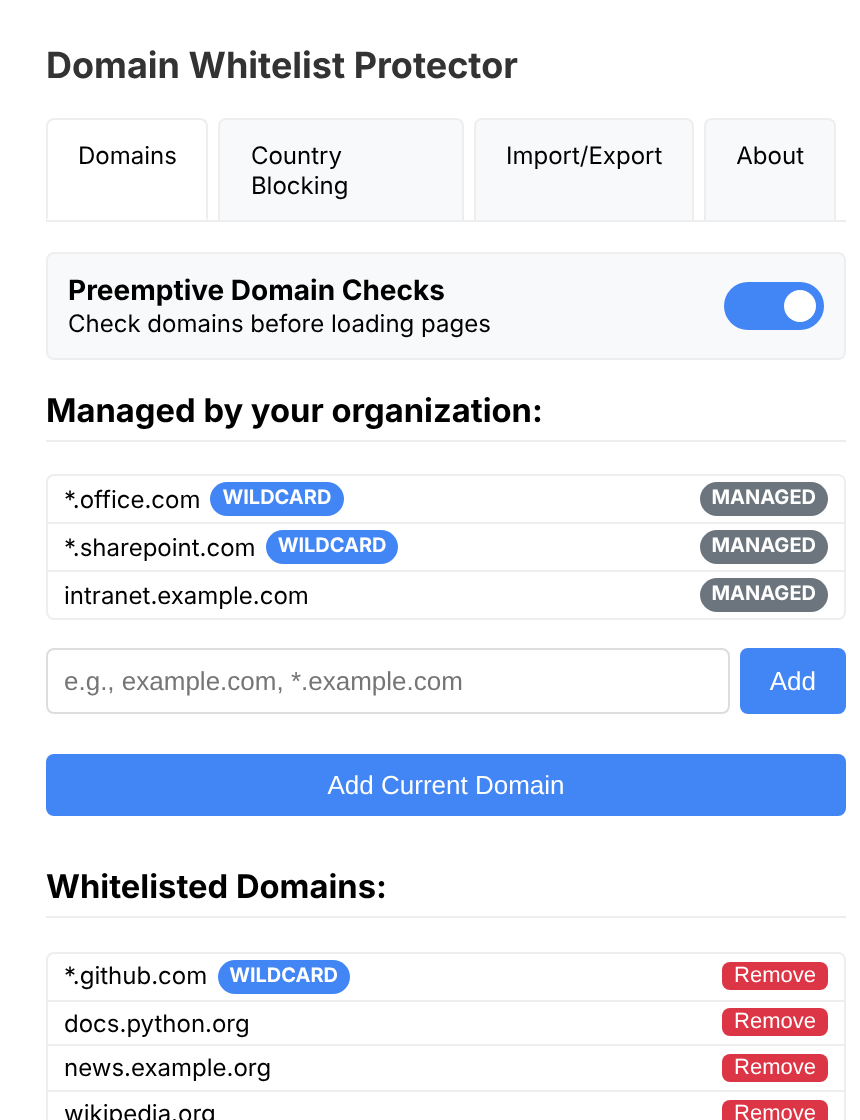
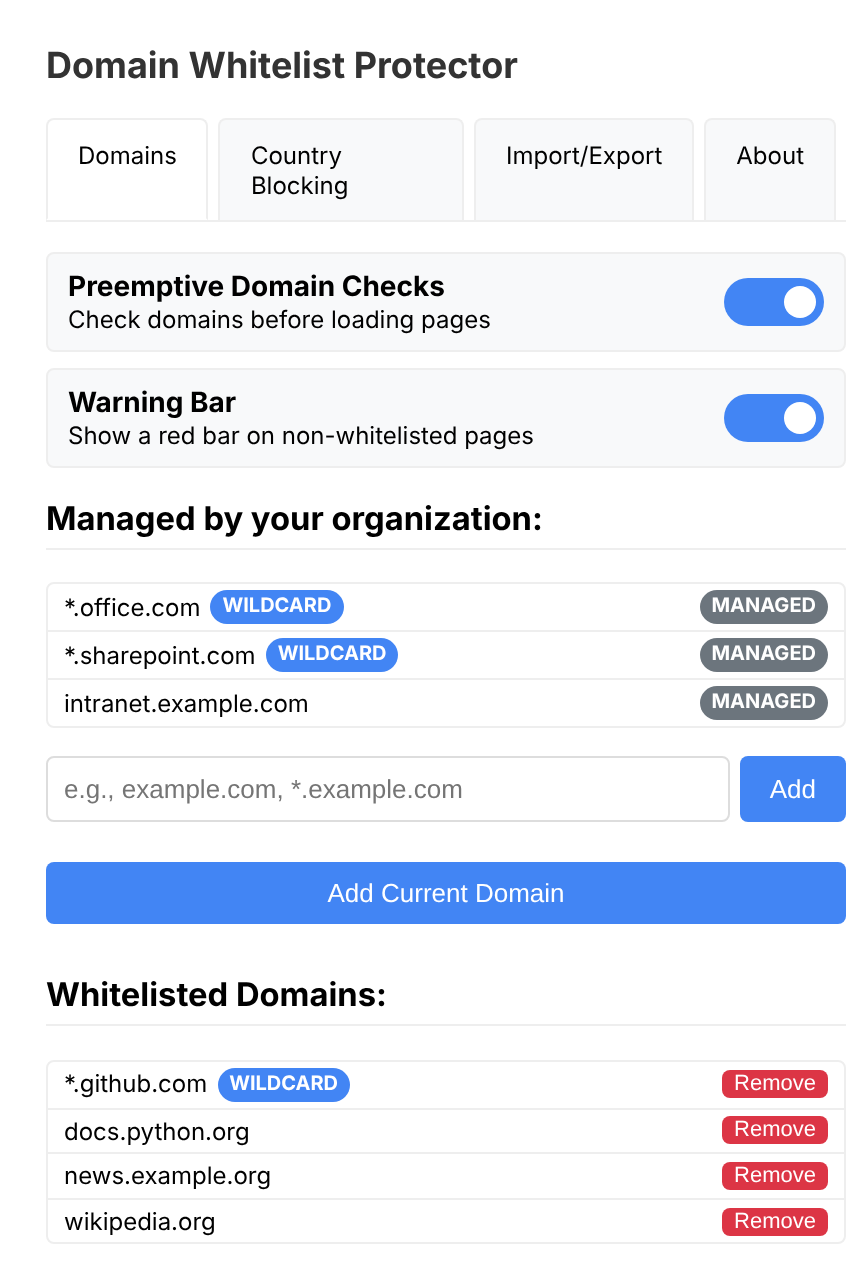
feat: warning bar can be dismissed per website and switched off
Closing the bar hides it for that website until the tab is closed
(suspicious domains show it again on every page). A new setting, lockable
by policy (enableWarningBar), turns the bar off entirely.

Claude-Session: https://claude.ai/code/session_01Eao7JCDyTYD7DYUftm2gS2

diff --git a/src/background.js b/src/background.js
@@ -22,6 +22,30 @@ async function allowDomainForSession(domain) {
   }
 }
 
+// Warning bars the user closed: { tabId: [domain, ...] }. A closed bar stays
+// hidden for that website until the tab or the browser is closed.
+async function getDismissedBars() {
+  const result = await browserAPI.storage.session.get(["dismissedBars"]);
+  return result.dismissedBars || {};
+}
+
+async function dismissBar(tabId, domain) {
+  const dismissed = await getDismissedBars();
+  const domains = dismissed[tabId] || [];
+  if (domain && !domains.includes(domain)) {
+    dismissed[tabId] = [...domains, domain];
+    await browserAPI.storage.session.set({ dismissedBars: dismissed });
+  }
+}
+
+browserAPI.tabs.onRemoved.addListener(async (tabId) => {
+  const dismissed = await getDismissedBars();
+  if (tabId in dismissed) {
+    delete dismissed[tabId];
+    await browserAPI.storage.session.set({ dismissedBars: dismissed });
+  }
+});
+
 browserAPI.webNavigation.onCommitted.addListener((details) => {
   // Only check main frame navigations
   if (details.frameId === 0) {
@@ -294,8 +318,21 @@ async function handleMessage(message, sender) {
         rootDomain: getRootDomain(message.hostname),
         similarTo: findSimilarWhitelisted(message.hostname, settings.whitelist),
         suspicion: findSuspicion(message.hostname, settings.whitelist),
+        barDismissed: Boolean(
+          sender.tab &&
+            ((await getDismissedBars())[sender.tab.id] || []).includes(
+              message.hostname,
+            ),
+        ),
       };
     }
+
+    case "dismissBar":
+      // Only for the page's own domain, as reported by the browser
+      if (sender.tab && isHttpUrl(sender.url)) {
+        await dismissBar(sender.tab.id, getDomain(sender.url));
+      }
+      return {};
 
     case "confirmationInfo": {
       if (!fromConfirmation) return {};
@@ -340,12 +377,14 @@ async function handleMessage(message, sender) {
       return {};
 
     case "togglePreemptiveChecks":
-    case "toggleCountryBlock": {
+    case "toggleCountryBlock":
+    case "toggleWarningBar": {
       if (!fromExtensionPage) return {};
-      const key =
-        message.action === "togglePreemptiveChecks"
-          ? "enablePreemptiveChecks"
-          : "enableCountryBlock";
+      const key = {
+        togglePreemptiveChecks: "enablePreemptiveChecks",
+        toggleCountryBlock: "enableCountryBlock",
+        toggleWarningBar: "enableWarningBar",
+      }[message.action];
       const settings = await loadSettings();
       if (!settings.locked[key]) {
         await browserAPI.storage.sync.set({ [key]: Boolean(message.enabled) });

diff --git a/src/content.js b/src/content.js
@@ -56,6 +56,13 @@ async function createWarningBar(domain, allowUserWhitelist, homograph) {
   // No one-click whitelisting for domains that look like a trusted one
   const suspicious = Boolean(homograph || (info && info.similarTo));
 
+  // The user closed the bar for this website in this tab. Suspicious
+  // domains show it again on every page.
+  if (info && info.barDismissed && !suspicious) {
+    if (warningBar === bar) warningBar = null;
+    return;
+  }
+
   if (allowUserWhitelist && !suspicious) {
     bar.appendChild(
       createButton("whitelist-btn", t("barWhitelist"), async () => {
@@ -79,7 +86,10 @@ async function createWarningBar(domain, allowUserWhitelist, homograph) {
     }
   }
 
-  const closeButton = createButton("close-warning-btn", "×", removeWarningBar);
+  const closeButton = createButton("close-warning-btn", "×", () => {
+    removeWarningBar();
+    browserAPI.runtime.sendMessage({ action: "dismissBar" }).catch(() => {});
+  });
   closeButton.title = t("barClose");
   bar.appendChild(closeButton);
 
@@ -241,11 +251,15 @@ async function checkDomain() {
     protectedEmailDomains = settings.protectedEmailDomains;
     scanFields();
     setTimeout(scanFields, 1500);
-    createWarningBar(
-      currentDomain,
-      settings.allowUserWhitelist,
-      analyzeHomograph(currentDomain, settings.whitelist),
-    );
+    if (settings.enableWarningBar) {
+      createWarningBar(
+        currentDomain,
+        settings.allowUserWhitelist,
+        analyzeHomograph(currentDomain, settings.whitelist),
+      );
+    } else {
+      removeWarningBar();
+    }
   }
 }
 

diff --git a/src/popup/popup.html b/src/popup/popup.html
@@ -129,8 +129,8 @@
       .toggle-container {
         display: flex;
         align-items: center;
-        margin: 15px 0;
-        padding: 10px;
+        margin: 8px 0;
+        padding: 8px 10px;
         background-color: #f8f9fa;
         border-radius: 4px;
         border: 1px solid #eee;
@@ -315,6 +315,26 @@
         </label>
       </div>
 
+      <div class="toggle-container">
+        <div class="toggle-label">
+          <strong data-i18n="warningBarTitle">Warning Bar</strong>
+          <div data-i18n="warningBarText">
+            Show a red bar on non-whitelisted pages
+          </div>
+          <div
+            class="managed-note"
+            id="warning-bar-managed"
+            data-i18n="managedByOrg"
+            hidden
+          >
+            Managed by your organization
+          </div>
+        </div>
+        <label class="toggle">
+          <input type="checkbox" id="warning-bar-toggle" checked />
+          <span class="slider"></span>
+        </label>
+      </div>
       <div id="managed-section" hidden>
         <h3 class="section-title" data-i18n="managedHeading">
           Managed by your organization:

diff --git a/scripts/enterprise.js b/scripts/enterprise.js
@@ -78,6 +78,20 @@ const POLICIES = [
     },
   },
   {
+    name: "enableWarningBar",
+    type: "boolean",
+    en: {
+      title: "Force the warning bar on non-whitelisted pages",
+      explain:
+        "Enabled: the red warning bar is always shown on non-whitelisted pages. Users can still close it for a website; it then stays hidden for that website until the tab is closed.\n\nDisabled: the warning bar is never shown. The confirmation page and the sign-in warning are not affected.\n\nNot configured: users decide.",
+    },
+    de: {
+      title: "Warnleiste auf nicht erlaubten Seiten erzwingen",
+      explain:
+        "Aktiviert: Die rote Warnleiste erscheint immer auf nicht erlaubten Seiten. Benutzer können sie für eine Website schließen; sie bleibt dann für diese Website ausgeblendet, bis der Tab geschlossen wird.\n\nDeaktiviert: Die Warnleiste erscheint nie. Bestätigungsseite und Warnung bei Anmeldung sind davon nicht betroffen.\n\nNicht konfiguriert: Benutzer entscheiden selbst.",
+    },
+  },
+  {
     name: "enableCountryBlock",
     type: "boolean",
     en: {

diff --git a/src/common.js b/src/common.js
@@ -388,6 +388,7 @@ async function loadSettings() {
   const locked = {
     enablePreemptiveChecks: typeof policy.enablePreemptiveChecks === "boolean",
     enableCountryBlock: typeof policy.enableCountryBlock === "boolean",
+    enableWarningBar: typeof policy.enableWarningBar === "boolean",
     geoProvider: GEO_PROVIDERS.includes(policy.geoProvider),
   };
   let geoProvider = locked.geoProvider
@@ -451,6 +452,9 @@ async function loadSettings() {
     enableCountryBlock: locked.enableCountryBlock
       ? policy.enableCountryBlock
       : syncData.enableCountryBlock !== false,
+    enableWarningBar: locked.enableWarningBar
+      ? policy.enableWarningBar
+      : syncData.enableWarningBar !== false,
     geoProvider,
     managedBlockedCountries,
     userBlockedCountries,
@@ -473,6 +477,7 @@ function settingsChanged(changes, areaName) {
       isWhitelistKey(key) ||
       key === "enablePreemptiveChecks" ||
       key === "enableCountryBlock" ||
+      key === "enableWarningBar" ||
       key === "geoProvider" ||
       key === "blockedCountries",
   );

diff --git a/src/popup/popup.js b/src/popup/popup.js
@@ -72,6 +72,16 @@ document.addEventListener("DOMContentLoaded", function () {
       browserAPI.storage.sync.set({ geoProvider: this.value });
     });
 
+  // Warning bar toggle
+  document
+    .getElementById("warning-bar-toggle")
+    .addEventListener("change", function () {
+      browserAPI.runtime.sendMessage({
+        action: "toggleWarningBar",
+        enabled: this.checked,
+      });
+    });
+
   // Load countries selector
   loadCountries();
 
@@ -112,6 +122,7 @@ async function loadToggleState() {
   const toggles = [
     ["preemptive-check-toggle", "preemptive-managed", "enablePreemptiveChecks"],
     ["country-block-toggle", "country-managed", "enableCountryBlock"],
+    ["warning-bar-toggle", "warning-bar-managed", "enableWarningBar"],
   ];
   for (const [toggleId, noteId, key] of toggles) {
     const toggle = document.getElementById(toggleId);

diff --git a/README.md b/README.md
@@ -11,7 +11,7 @@ can be rolled out and configured centrally through Group Policy.
 **Protection**
 
 - **Confirmation page**: non-whitelisted domains are intercepted before they load; you choose to continue once, whitelist, or leave
-- **Warning bar**: a red banner stays visible on non-whitelisted pages
+- **Warning bar**: a red banner on non-whitelisted pages; closing it hides it for that website until the tab is closed, and it can be turned off entirely
 - **Lookalike detection**: warns when a domain imitates a whitelisted one, using characters from other alphabets (`аmazon.de` with a Cyrillic "а"), typos (`sharepoimt.com`), visual tricks (`rnicrosoft.com`), other endings (`sharepoint.co`) or the trusted name as a subdomain (`sharepoint.com.evil.net`). Such domains cannot be whitelisted with one click
 - **Sign-in guard**: marks the field red and warns when a company e-mail address is typed on a non-whitelisted page
 - **Country blocking**: optionally looks up where a non-whitelisted domain is hosted and blocks selected countries
@@ -97,6 +97,7 @@ Administrators can set these through the generated templates (see `src/managed_s
 | `managedWhitelist` | list of strings | Domains that are always whitelisted |
 | `allowUserWhitelist` | boolean | `false`: users cannot whitelist their own domains |
 | `enablePreemptiveChecks` | boolean | Forces the confirmation page on or off |
+| `enableWarningBar` | boolean | Forces the warning bar on or off |
 | `protectedEmailDomains` | list of strings | Company e-mail domains for the sign-in guard |
 | `protectedLogins` | list of strings | Optional, per user: further sign-in names for the sign-in guard |
 | `noticeText` | string | Note shown on the confirmation page |

diff --git a/docs/enterprise-gpo.md b/docs/enterprise-gpo.md
@@ -125,6 +125,7 @@ beide Browser nutzt, trage die Liste in beiden Ordnern ein.
 | Firmen-Whitelist | Domains, die für alle immer erlaubt sind |
 | Benutzer dürfen eigene Domains erlauben | Deaktiviert: nur die Firmen-Whitelist gilt. Andere Seiten lassen sich nach der Warnung weiterhin öffnen, aber nicht dauerhaft erlauben |
 | Bestätigungsseite für nicht erlaubte Domains erzwingen | Aktiviert: Benutzer können die Vorabprüfung nicht abschalten |
+| Warnleiste auf nicht erlaubten Seiten erzwingen | Deaktiviert: Die rote Leiste erscheint nie. Bestätigungsseite und Warnung bei Anmeldung bleiben aktiv |
 | Länderprüfung erzwingen | Schaltet die Länderabfrage fest ein oder aus |
 | Abfragedienst für die Länderprüfung | Legt den Dienst fest: ipwho.is oder geojs.io (beide verschlüsselt, Auflösung über Google Public DNS) oder ip-api.com (unverschlüsselt). Vor gewerblicher Nutzung die Nutzungsbedingungen des Dienstes prüfen |
 | Firmen-Maildomains (Warnung bei Anmeldung) | Adressen dieser Domains lösen auf nicht erlaubten Seiten eine rote Warnung am Eingabefeld aus |
